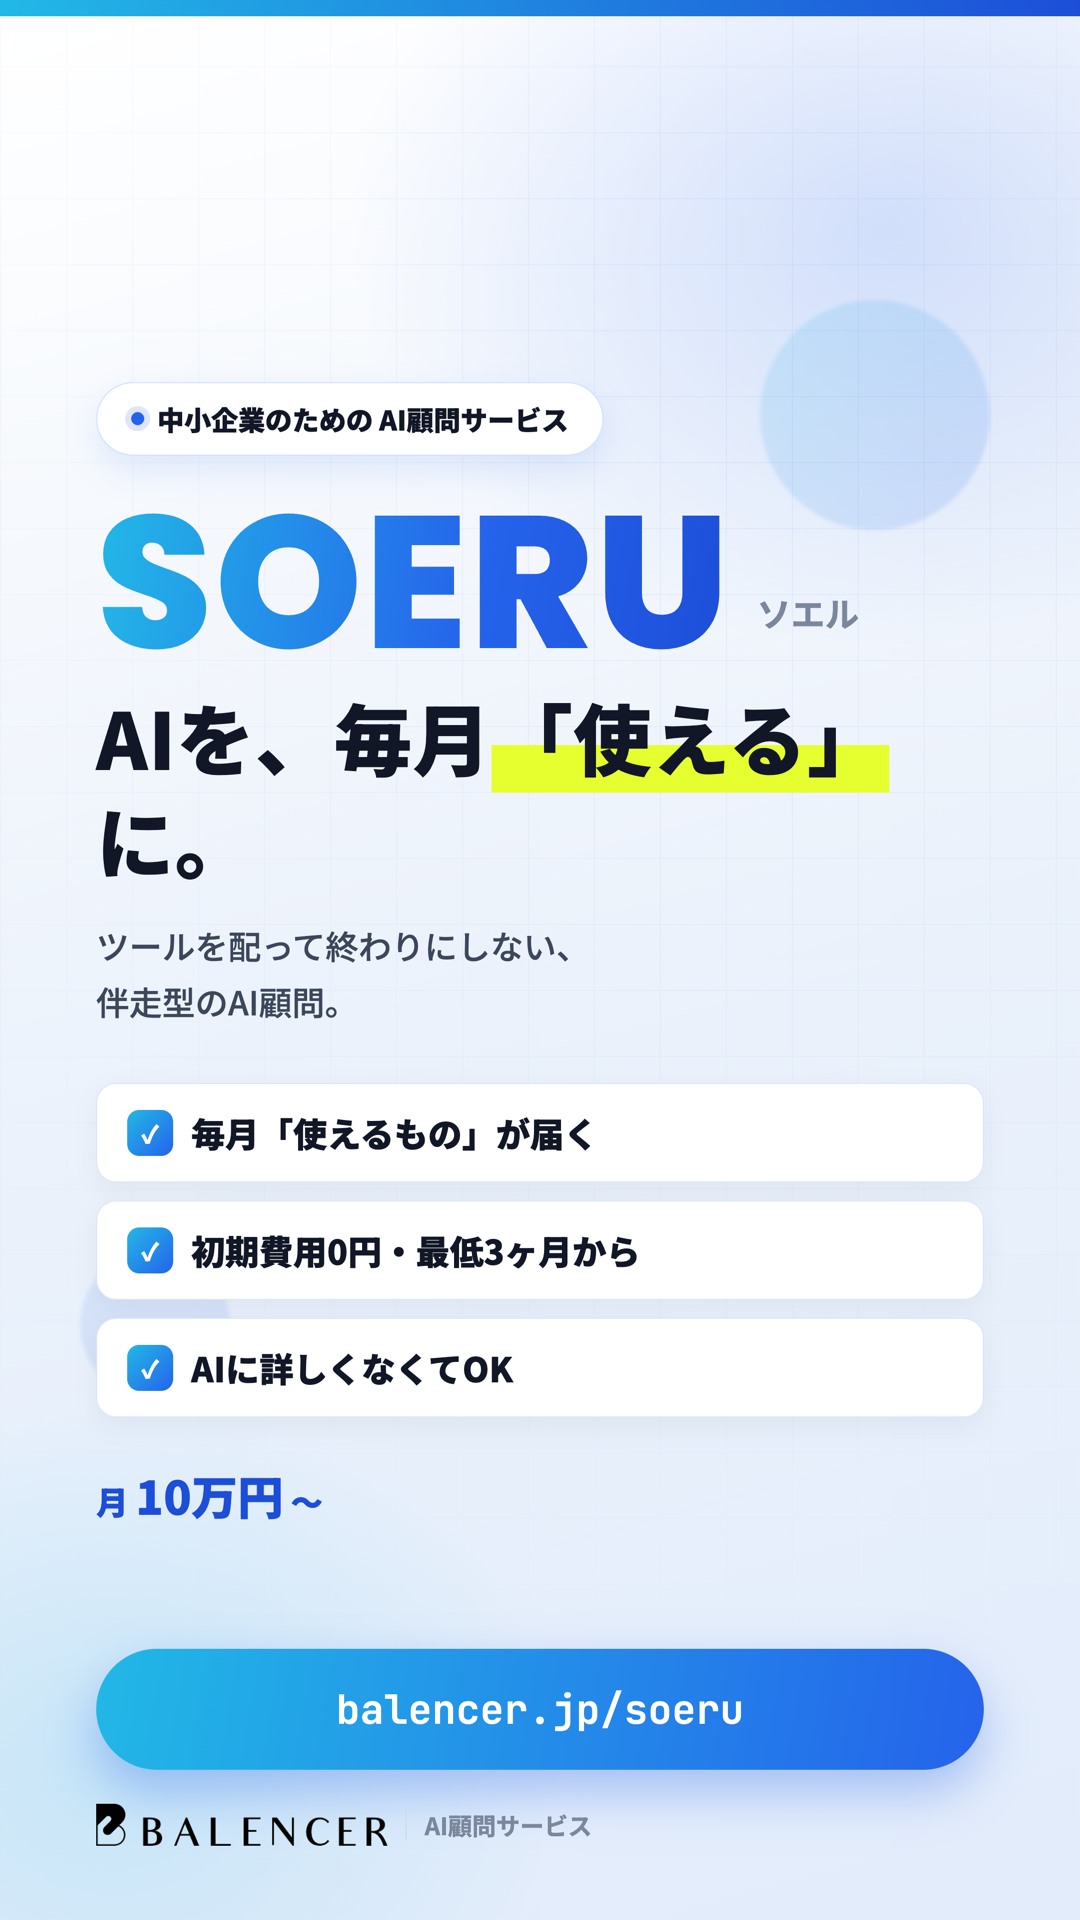
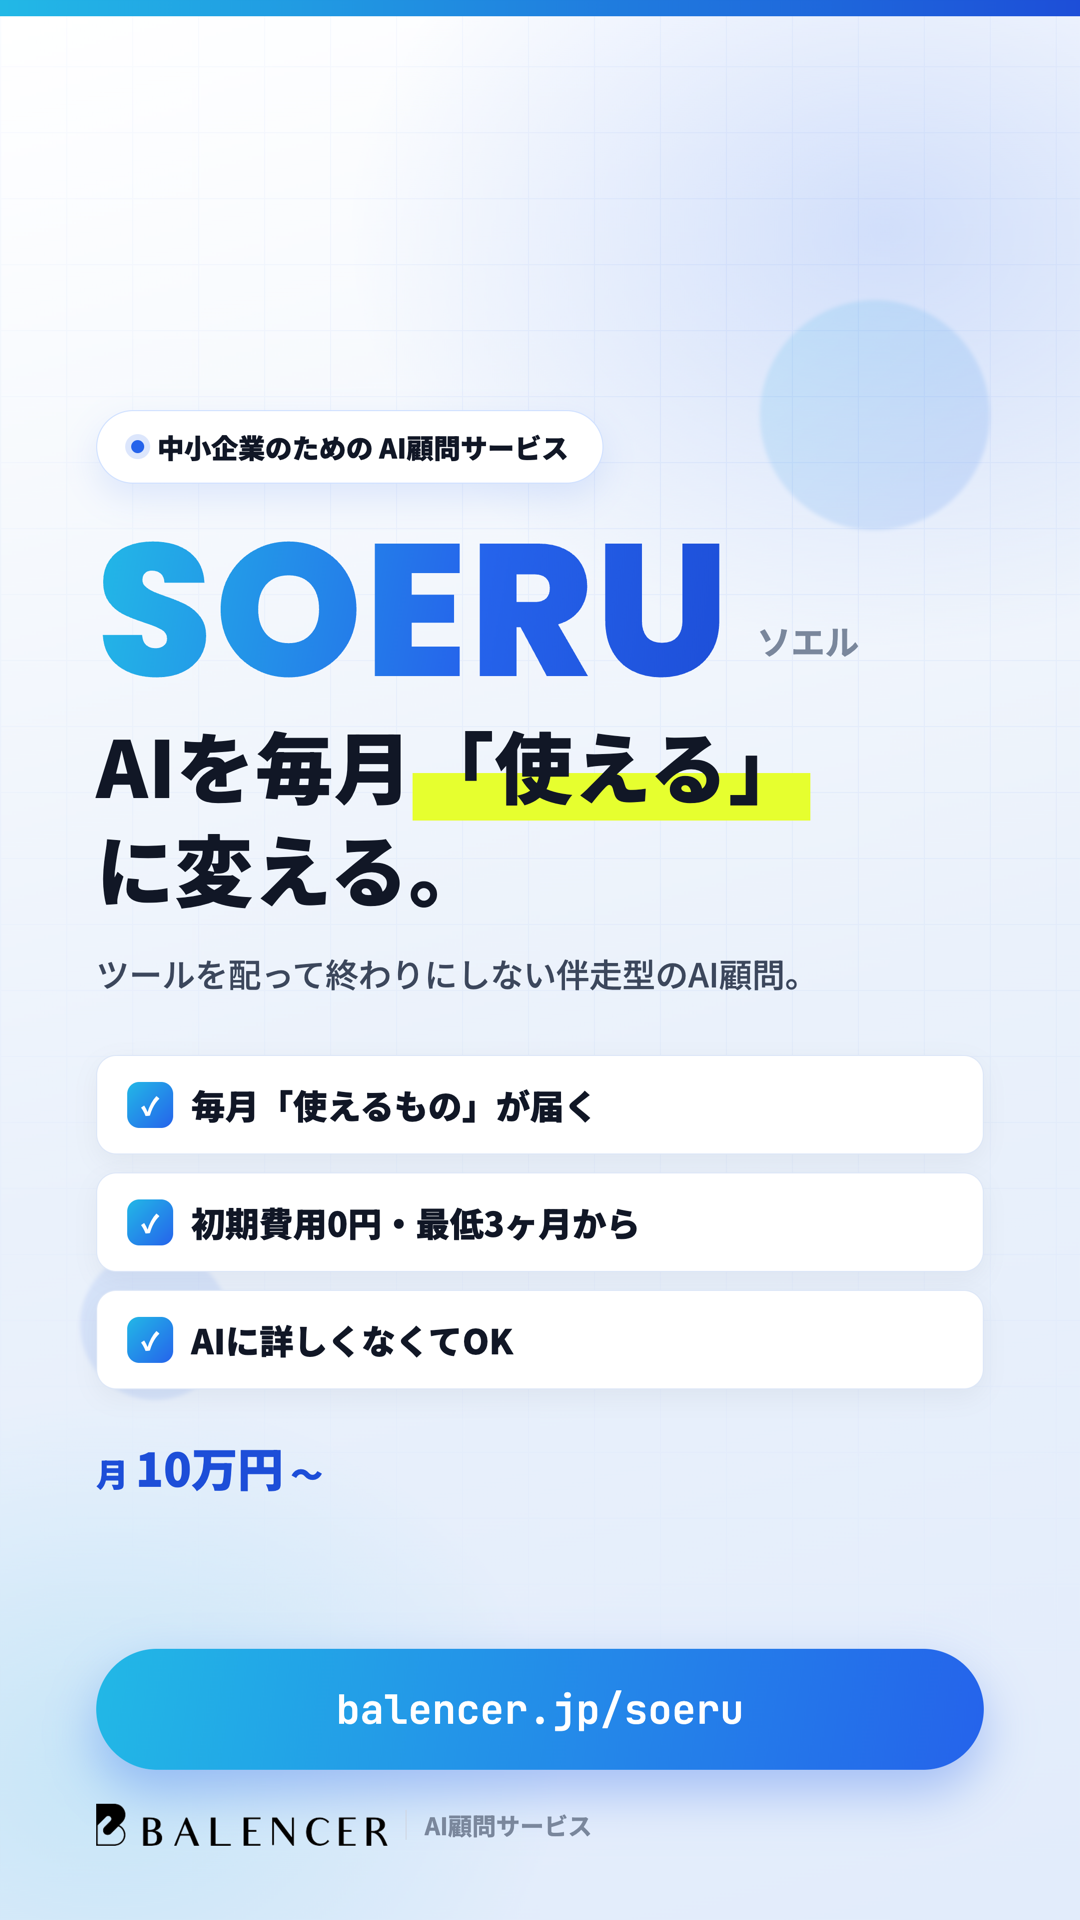
SOERUストーリー画像の文言調整＋代理店募集資料PDF(15%/24ヶ月上限)を作成

Changed region(s): [[0.0917, 0.1875, 0.825, 0.5312], [0.0917, 0.5625, 0.9167, 0.8125]]

diff --git a/docs/proposals/soeru-partner/soeru-partner.html b/docs/proposals/soeru-partner/soeru-partner.html
@@ -1,0 +1,137 @@
+<!DOCTYPE html><html lang="ja"><head><meta charset="UTF-8">
+<link href="https://fonts.googleapis.com/css2?family=Poppins:wght@600;700;800&family=Noto+Sans+JP:wght@400;500;700;900&family=JetBrains+Mono:wght@600&display=swap" rel="stylesheet">
+<style>
+:root{--ink:#111726;--ink2:#3C475C;--muted:#7A879C;--line:#E7EBF1;--line2:#D6DCE6;--blue:#2563EB;--cyan:#22B8E6;--soft:#EEF3FF;--grad:linear-gradient(100deg,#22B8E6,#2563EB)}
+*{margin:0;padding:0;box-sizing:border-box}
+@page{size:A4;margin:0}
+body{font-family:'Noto Sans JP','Hiragino Sans',sans-serif;color:var(--ink2);-webkit-print-color-adjust:exact;print-color-adjust:exact}
+.page{width:210mm;min-height:297mm;padding:22mm 20mm;position:relative;overflow:hidden;page-break-after:always;background:#fff}
+.page:last-child{page-break-after:auto}
+.kick{font-family:'JetBrains Mono',monospace;font-size:11px;font-weight:600;letter-spacing:.14em;text-transform:uppercase;color:var(--blue)}
+h1,h2,h3{color:var(--ink);line-height:1.4}
+.gt{background:var(--grad);-webkit-background-clip:text;background-clip:text;color:transparent}
+.sec-h{font-size:23px;font-weight:900;margin:0 0 6px}
+.sec-h::after{content:"";display:block;width:44px;height:3px;background:var(--grad);border-radius:2px;margin-top:12px}
+.lead{font-size:13.5px;color:var(--ink2);line-height:1.9}
+.pgfoot{position:absolute;left:20mm;right:20mm;bottom:12mm;display:flex;justify-content:space-between;align-items:center;font-size:10.5px;color:var(--muted);border-top:1px solid var(--line);padding-top:8px}
+.pgfoot img{height:16px;opacity:.8}
+
+/* 表紙 */
+.cover{background:radial-gradient(520px 360px at 86% 10%,rgba(37,99,235,.14),transparent 62%),linear-gradient(160deg,#FBFDFF,#EAF1FB);display:flex;flex-direction:column;justify-content:center}
+.cover .bar{position:absolute;right:0;top:0;bottom:0;width:12px;background:var(--grad)}
+.cover .logo{height:30px;margin-bottom:60px}
+.cover .badge{display:inline-flex;align-items:center;gap:9px;background:#fff;border:1px solid #cfe0ff;border-radius:999px;padding:9px 20px;font-size:13px;font-weight:800;color:var(--ink);width:max-content;box-shadow:0 10px 26px rgba(37,99,235,.10)}
+.cover .badge .dot{width:8px;height:8px;border-radius:50%;background:var(--blue)}
+.cover h1{font-size:44px;font-weight:900;line-height:1.3;margin:26px 0 14px}
+.cover .sub{font-size:16px;color:var(--ink2);line-height:1.8;max-width:150mm}
+.cover .svc{display:flex;align-items:flex-end;gap:14px;margin:40px 0 0}
+.cover .svc .en{font-family:'Poppins';font-weight:800;font-size:64px;line-height:.9;letter-spacing:.01em}
+.cover .svc .ja{font-size:16px;color:var(--muted);padding-bottom:10px}
+.cover .meta{position:absolute;left:20mm;bottom:20mm;font-size:12px;color:var(--muted);line-height:1.8}
+
+/* parts */
+.grid2{display:grid;grid-template-columns:1fr 1fr;gap:14px;margin-top:18px}
+.card{background:#fff;border:1px solid var(--line);border-radius:14px;padding:20px 22px;box-shadow:0 1px 3px rgba(17,23,38,.04)}
+.card h3{font-size:15px;font-weight:800;margin-bottom:6px}
+.card p{font-size:12.5px;color:var(--ink2);line-height:1.8}
+.card .ic{width:38px;height:38px;border-radius:10px;background:var(--soft);color:var(--blue);display:flex;align-items:center;justify-content:center;font-weight:900;margin-bottom:12px}
+.tint{background:var(--soft);border:1px solid #DCE6F7;border-radius:14px;padding:20px 24px;margin-top:18px}
+.tint b{color:var(--ink)}
+ul.ck{list-style:none;margin-top:10px}
+ul.ck li{font-size:13px;color:var(--ink2);line-height:1.7;padding-left:26px;position:relative;margin-bottom:8px}
+ul.ck li::before{content:"✓";position:absolute;left:0;color:#fff;background:var(--blue);width:18px;height:18px;border-radius:50%;font-size:11px;font-weight:900;display:flex;align-items:center;justify-content:center;top:2px}
+table{width:100%;border-collapse:collapse;margin-top:16px;font-size:13px}
+th,td{border:1px solid var(--line);padding:12px 14px;text-align:left}
+th{background:var(--ink);color:#fff;font-weight:700;font-size:12.5px}
+td .big{font-weight:900;color:var(--blue);font-family:'Poppins'}
+.note{font-size:11px;color:var(--muted);margin-top:10px;line-height:1.7}
+.flow{display:flex;flex-direction:column;gap:12px;margin-top:18px}
+.step{display:flex;gap:16px;align-items:flex-start;background:#fff;border:1px solid var(--line);border-radius:12px;padding:16px 20px}
+.step .n{width:30px;height:30px;border-radius:50%;background:var(--grad);color:#fff;font-weight:900;display:flex;align-items:center;justify-content:center;flex:none;font-family:'Poppins';font-size:14px}
+.step h3{font-size:14px;font-weight:800}
+.step p{font-size:12.5px;color:var(--muted);margin-top:2px}
+.cta-box{margin-top:22px;background:var(--ink);color:#fff;border-radius:16px;padding:26px 30px}
+.cta-box h3{color:#fff;font-size:18px;font-weight:900;margin-bottom:8px}
+.cta-box p{font-size:13px;color:#cdd6e6;line-height:1.8}
+.cta-box .row{display:flex;gap:26px;margin-top:14px;flex-wrap:wrap;font-size:13.5px}
+.cta-box .row b{color:#fff}
+.cta-box a{color:#9ec3ff}
+</style></head>
+<body>
+
+<!-- 表紙 -->
+<section class="page cover">
+  <div class="bar"></div>
+  <img class="logo" src="../../soeru-lp/balencer-logo.png" alt="BALENCER">
+  <span class="badge"><span class="dot"></span>パートナー募集のご案内</span>
+  <h1>AI顧問サービス「SOERU」を、<br>一緒に届ける<span class="gt">代理店パートナー</span>募集</h1>
+  <p class="sub">中小企業のAI活用を、毎月の伴走で支えるサブスクサービス。<br>「売る」ところだけお任せください。契約・実装・サポートはバレンサーが担います。</p>
+  <div class="svc"><span class="en gt">SOERU</span><span class="ja">ソエル｜AI顧問サービス</span></div>
+  <div class="meta">株式会社バレンサー（BALENCER Inc.）<br>[email redacted] ／ https://balencer.jp/soeru/</div>
+</section>
+
+<!-- P2 SOERUとは -->
+<section class="page">
+  <span class="kick">about soeru</span>
+  <h2 class="sec-h">SOERUとは ／ なぜ売りやすいか</h2>
+  <p class="lead">SOERU（ソエル）は、中小企業向けの<b>AI顧問サブスク</b>。毎月「使えるもの」（AIの頼み方・作業の自動化・専用ツール）を、御社の業務に合わせてお届けします。料金は<b>月10万／20万／50万</b>の3プラン、初期費用0円・最低3ヶ月。</p>
+  <div class="grid2">
+    <div class="card"><div class="ic">¥</div><h3>補助金が要らない価格帯</h3><p>月10万円〜。補助金の審査待ちが不要で、商談から契約までが速い。</p></div>
+    <div class="card"><div class="ic">◎</div><h3>成果が一言で言える</h3><p>「毎月、使えるものが届く」。説明がシンプルで、現場にも刺さる。</p></div>
+    <div class="card"><div class="ic">⚙</div><h3>実装は全部バレンサー</h3><p>契約後の構築・伴走・サポートはこちら。代理店は"売る"に専念できる。</p></div>
+    <div class="card"><div class="ic">↗</div><h3>続くから報酬も続く</h3><p>月額サブスク＝継続課金。紹介1件が継続的な手数料収入になる。</p></div>
+  </div>
+  <div class="tint">
+    <b>ふつうのAIコンサルとの違い：</b>「対話もできて、コードも書ける」ブランディングカンパニーが提供。ツールを渡して終わりにせず、御社に入り込んで“動くもの”まで作る——だから解約されにくく、代理店の継続収入も安定します。
+  </div>
+  <div class="pgfoot"><span>SOERU 代理店パートナー募集</span><img src="../../soeru-lp/balencer-logo.png"></div>
+</section>
+
+<!-- P3 役割と報酬 -->
+<section class="page">
+  <span class="kick">your role &amp; reward</span>
+  <h2 class="sec-h">パートナーの役割と、報酬</h2>
+  <p class="lead">契約形態は<b>紹介（取次）型</b>。代理店は見込み客のご紹介に専念いただき、商談・契約・実装・サポートはバレンサーが行います（バレンサー名義）。</p>
+  <ul class="ck">
+    <li>代理店の役割：<b>見込み客のご紹介</b>（必要に応じて初回同席）</li>
+    <li>バレンサーの役割：商談・契約・構築・伴走・請求・サポートの一切</li>
+    <li>提供する営業支援：LP・OGP・トークスクリプト・説明資料・共催ウェビナー・実装丸投げ</li>
+  </ul>
+
+  <h3 style="font-size:15px;margin-top:22px">手数料体系（継続レベニューシェア・期間上限つき）</h3>
+  <p class="lead" style="margin-top:6px">成約した月額の<b>15%</b>を、契約開始から<b>最大24ヶ月</b>お支払いします（最低3ヶ月分は保証／<b>永続ではありません</b>）。「売る動機」と「続けてもらう動機」を両立しつつ、事業者の負担も読める設計です。</p>
+  <table>
+    <tr><th>プラン</th><th>顧客の月額</th><th>代理店の手数料（月・最大24ヶ月）</th><th>24ヶ月累計</th></tr>
+    <tr><td>スターター</td><td>¥100,000</td><td><span class="big">¥15,000</span> / 月</td><td>¥360,000</td></tr>
+    <tr><td>スタンダード（人気）</td><td>¥200,000</td><td><span class="big">¥30,000</span> / 月</td><td>¥720,000</td></tr>
+    <tr><td>ストラテジック</td><td>¥500,000</td><td><span class="big">¥75,000</span> / 月</td><td>¥1,800,000</td></tr>
+  </table>
+  <div class="tint" style="margin-top:16px"><b>収入イメージ：</b>平均月20万のお客様を10社ご紹介し継続した場合 → <b>月30,000円 × 10社 ＝ 月30万円</b>の継続手数料が、最大24ヶ月積み上がります（1社あたり累計 約72万円）。</div>
+  <p class="note">※ 手数料率（15%）・期間上限（24ヶ月）・最低保証（3ヶ月）・支払サイトは本案（たたき台）です。最終条件は個別協議で確定します。初期費用0円の商品のため初回ボーナスは設けず、継続シェアに寄せています。再販（リセラー）型をご希望の場合は別途ご相談ください。</p>
+  <div class="pgfoot"><span>SOERU 代理店パートナー募集</span><img src="../../soeru-lp/balencer-logo.png"></div>
+</section>
+
+<!-- P4 進め方・申込 -->
+<section class="page">
+  <span class="kick">how it works</span>
+  <h2 class="sec-h">進め方と、お申し込み</h2>
+  <div class="flow">
+    <div class="step"><span class="n">1</span><div><h3>パートナー登録</h3><p>簡単な代理店契約（紹介手数料の取り決め）を締結。営業ツール一式をお渡しします。</p></div></div>
+    <div class="step"><span class="n">2</span><div><h3>見込み客のご紹介</h3><p>「AIを使いたいが進まない」中小企業をご紹介。専用URL（?src付き）で経路も記録。</p></div></div>
+    <div class="step"><span class="n">3</span><div><h3>バレンサーが商談〜契約〜実装</h3><p>ヒアリング・提案・契約・構築・毎月の伴走まで、すべてこちらで対応します。</p></div></div>
+    <div class="step"><span class="n">4</span><div><h3>継続手数料のお支払い</h3><p>契約開始から最大24ヶ月、月額の15%を毎月お支払い。紹介が積み上がるほど収入も積み上がります。</p></div></div>
+  </div>
+
+  <div class="cta-box">
+    <h3>まずは、お気軽にご相談ください。</h3>
+    <p>「どんな会社が紹介先になるか」「自社の商材と組み合わせられるか」など、5〜10分の相談から。条件はご一緒に設計します。</p>
+    <div class="row">
+      <span>お問い合わせ：<b>[email redacted]</b></span>
+      <span>サービス：<a>https://balencer.jp/soeru/</a></span>
+    </div>
+  </div>
+  <p class="note" style="margin-top:18px">株式会社バレンサー（BALENCER Inc.）／ AI顧問サービス SOERU ／ 本資料の二次配布は要相談。</p>
+  <div class="pgfoot"><span>SOERU 代理店パートナー募集</span><img src="../../soeru-lp/balencer-logo.png"></div>
+</section>
+
+</body></html>